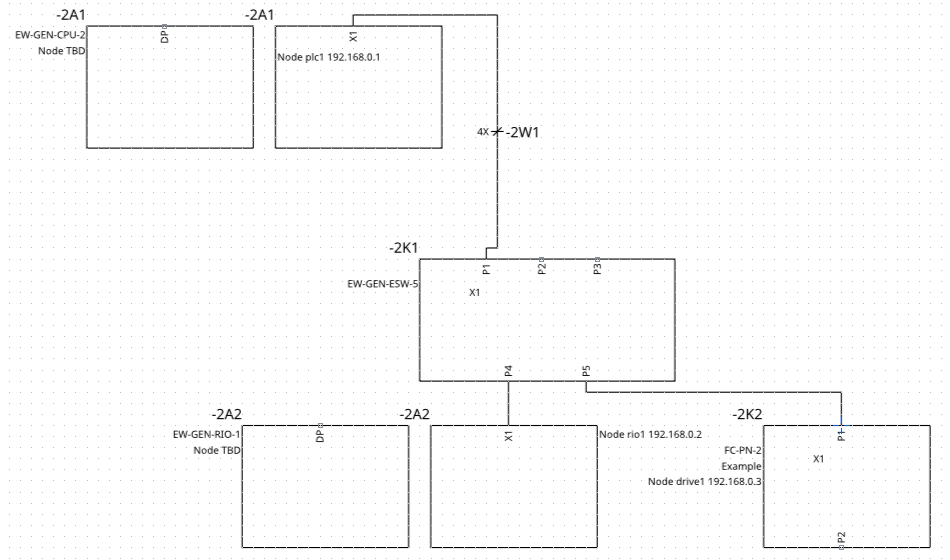
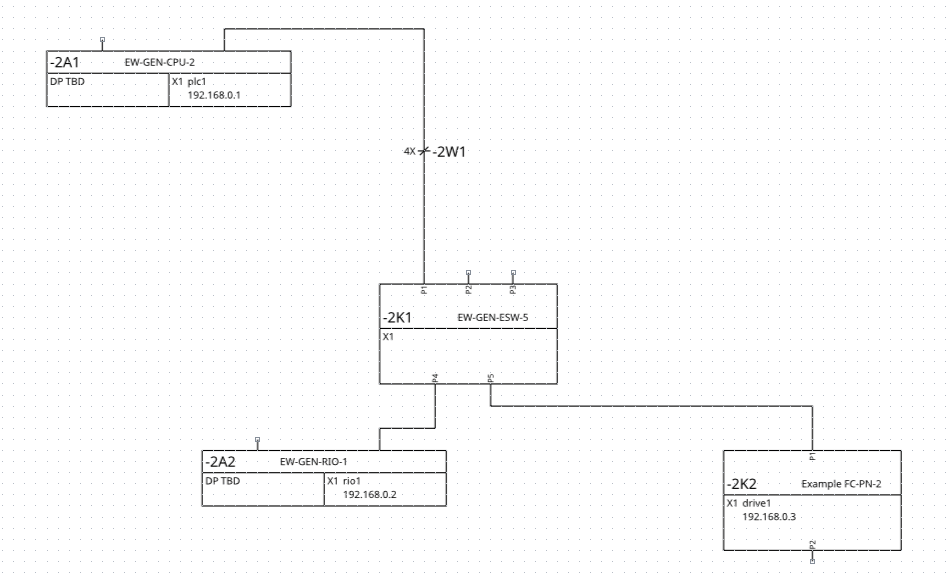
fix(bus): Draw as one symbol selects the symbols it drew
After Draw as one symbol the selection still named the replaced boxes, so
Properties said the object no longer exists. The new symbols are now the
selection. The drawing test also covers a coupler on two buses, and the bus
tutorial's picture is painted again with the one symbol per device.

diff --git a/crates/ew-api/tests/it/bus_symbol.rs b/crates/ew-api/tests/it/bus_symbol.rs
@@ -18,9 +18,11 @@ const PAGE: u128 = 0x10;
 const PORT_DEF: u128 = 0x20;
 const HEAD: u128 = 0x30;
 const SWITCH: u128 = 0x31;
+const COUPLER: u128 = 0x32;
 const UPRIGHT: u128 = 0x40;
 const TURNED: u128 = 0x41;
 const SWITCHED: u128 = 0x42;
+const COUPLED: u128 = 0x43;
 /// 2.6458 mm: one step of the QElectroTech grid, in nm (rounded down).
 const STEP: i64 = 2_645_833;
 
@@ -81,7 +83,8 @@ fn profinet(interface: &str, name: &str, ip: &str) -> Value {
 }
 
 /// A bus page with a head station of part HS-2 (X1 with two ports, X2 with one) drawn upright and once more turned a
-/// quarter, and a managed switch of part MSW-8 (X1 with eight ports); `address` is the head station's X1 device name.
+/// quarter, a managed switch of part MSW-8 (X1 with eight ports) and a coupler of part CPL-PN-DP on two buses (X1 on
+/// PROFINET with two ports, DP on PROFIBUS); `address` is the head station's X1 device name.
 fn parts(address: &str) -> (Project, Vec<Record>, Vec<LibDocument>) {
     let (symbol, copy) = bus_copy();
     let mut records = vec![json!({
@@ -108,6 +111,9 @@ fn parts(address: &str) -> (Project, Vec<Record>, Vec<LibDocument>) {
     records.push(rep(UPRIGHT, copy, &[0x51, 0x52], (10, 10), "r0"));
     records.push(rep(TURNED, copy, &[0x61, 0x62], (60, 10), "r90"));
     records.push(rep(SWITCHED, copy, &[0x71], (10, 40), "r0"));
+    let dp = json!({"interface": "DP", "bus": "profibus_dp", "role": "slave", "address": {"value": {"profibus": 5}}});
+    records.extend(device(0x80, "A", 3, COUPLER, &[(0x81, profinet("X1", "cpl1", "192.168.0.20")), (0x82, dp)]));
+    records.push(rep(COUPLED, copy, &[0x81, 0x82], (60, 45), "r0"));
     let mut lib = vec![
         symbol,
         json!({"$k": "fndef", "id": uid(PORT_DEF), "library_id": uid(0x9000), "item_id": uid(0x9200),
@@ -125,6 +131,12 @@ fn parts(address: &str) -> (Project, Vec<Record>, Vec<LibDocument>) {
         SWITCH,
         "MSW-8",
         json!([{"interface": "X1", "bus": "profinet", "role": "device", "ports": 8}]),
+    ));
+    lib.push(part(
+        COUPLER,
+        "CPL-PN-DP",
+        json!([{"interface": "X1", "bus": "profinet", "role": "device", "ports": 2},
+               {"interface": "DP", "bus": "profibus_dp", "role": "slave"}]),
     ));
     let project: Project =
         serde_json::from_value(json!({"id": uid(1), "derivation_profile": "2027.1"})).expect("project");
@@ -216,7 +228,7 @@ fn overlap(a: Box2, b: Box2) -> bool {
 fn a_device_on_a_bus_page_is_its_parts_symbol_with_every_text_inside_its_body() {
     let model = model("rio1");
     let q = Q::new(&model);
-    for n in [UPRIGHT, TURNED, SWITCHED] {
+    for n in [UPRIGHT, TURNED, SWITCHED, COUPLED] {
         let body = body(&q, n);
         let texts = texts(&q, n);
         assert!(

diff --git a/crates/ew-viewmodel/src/shell/editing/actions.rs b/crates/ew-viewmodel/src/shell/editing/actions.rs
@@ -127,6 +127,16 @@ impl ShellModel {
             }
             done.push(tag);
         }
+        // The new symbols are the selection: the replaced boxes are gone, and Properties shows what was drawn.
+        self.sync_views();
+        let drawn: Vec<EntityRef> = self.canvas().map_or_else(Vec::new, |c| {
+            let reps = &c.page().tables.reps;
+            let ours = |r: &&ew_api::output::TableRep| {
+                r.symbol == copy && devices.iter().any(|(d, _)| r.device == Some(*d))
+            };
+            reps.iter().filter(ours).map(|r| EntityRef(r.id)).collect()
+        });
+        self.tools.selection.apply(&SelectionChange::Replace(drawn));
         let text = match done.as_slice() {
             [one] => strings::format(key!("toast-one-symbol"), &[one]),
             many => strings::format(key!("toast-one-symbol-many"), &[&many.len().to_string()]),

diff --git a/crates/ew-viewmodel/tests/it/bus_page_boxes.rs b/crates/ew-viewmodel/tests/it/bus_page_boxes.rs
@@ -222,6 +222,11 @@ fn draw_as_one_symbol_replaces_a_device_s_boxes_and_its_line_follows_the_socket(
         .find(|r| r.functions.len() == 2)
         .expect("-104A1's symbol");
     assert_eq!(symbol.pos, first, "where its first box stood");
+    assert_eq!(
+        s.selection().items,
+        [ew_dl::EntityRef(symbol.id)],
+        "the symbol is selected, not the gone boxes"
+    );
     let dp = cp_at(&s, "-104A1:A");
     let line = tables(&s)
         .connections
